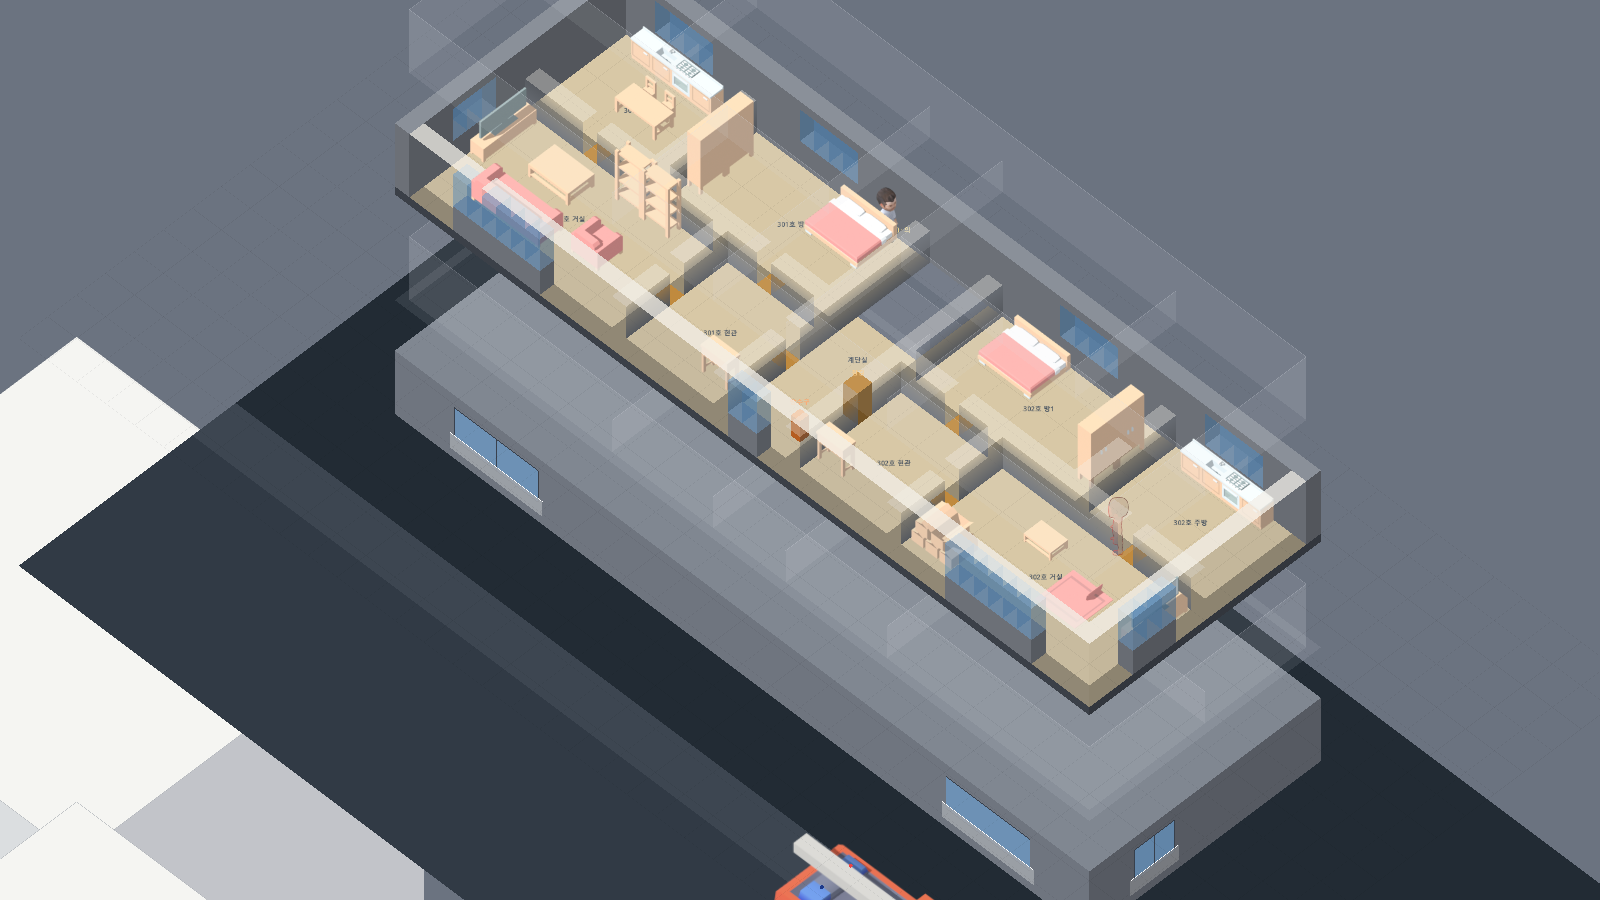
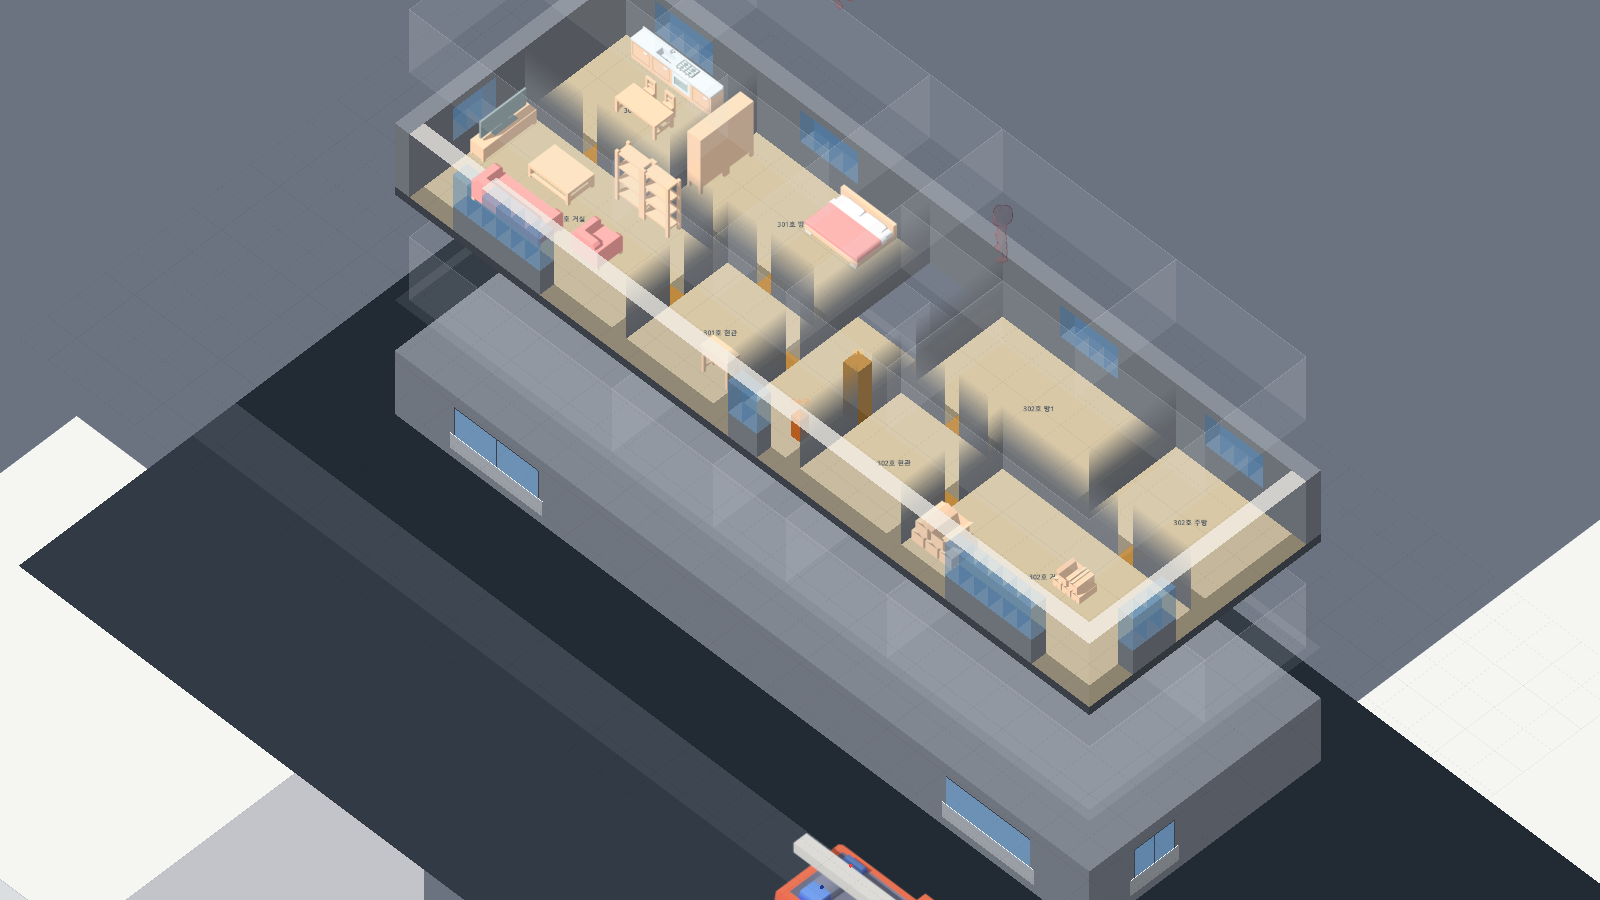
정보 안개: 미발견 칸은 천장 높이 덮개(바닥 칠하지 않음), 기억한 칸은 채도만 낮춤, 실내 벽은 천장까지 그라데이션

diff --git a/docs/decisions.md b/docs/decisions.md
@@ -96,3 +96,4 @@
 | 2026-11-11 | F01 | 단면 보기 다른 층 | 층 간격 160→220px. 고른 층 외 위·아래 층은 벽 선(외곽·방 벽)만 얇은 반투명 흰 선, 불을 아는 방의 벽만 주황. 가구·바닥·불·연기는 그리지 않음. 다른 층 대원은 몸 테두리 노랑, 발견한 요구조자는 빨강 — 지금 층 위에 비쳐 보임(X-ray) | 사용자 요청(위층이 지금 층을 가림). 불·연기 윤곽선은 복잡해져 빼고 층 막대 표시로 충분 |
 | 2026-11-11 | F01 | 다른 층 벽 모양 | 유리 상자: 벽을 천장 높이(2.4m) 면으로 — 바깥벽 반투명 실선(위·아래·양 끝 세로선), 확인된 내부 벽(본 적 있거나 도면)은 옅은 반투명 면 + 반투명 점선 테두리, 모르는 곳 내부 벽은 숨김, 불을 아는 방 벽은 주황 | 사용자 지적(가로선만 있어 입체감 없음) + 제안(확인된 내부 벽만 점선) |
 | 2026-11-11 | F01 | 단면 보기 벽·층 | 지금 층: 앞 바깥벽(남·동) 천장 높이 면 15% + 꼭대기 진한 띠, 뒷벽은 그대로, 실내 벽 허리 높이(1.2m) 바닥 진하고 위로 갈수록 투명(20%), 문·창은 진하게. 바로 아래층: 벽·바닥 회백색 10%. 바로 위층: 벽만 회백색 10%(바닥은 지금 층을 뿌옇게 덮어 뺌). 먼 아래층: 건물 외관 덩어리. 먼 위층: 잘라 냄(사람 테두리만). 다른 층 사람은 노랑·빨강 테두리 | 사용자 결정(유리 상자 방식 폐기). 먼 위층을 외관으로 그리면 지금 층을 가려 잘라 냄 |
+| 2026-11-11 | 정보 안개 표현 | 미발견 지역 | 바닥을 까맣게 칠하지 않고, 본 적 없는 실내 칸 위에 천장 높이 회청색 덮개(85%, 빗금·테두리) — 대원이 보면 그 칸이 걷힘. 본 적 있지만 지금 안 보이는 칸은 채도를 빼고 조금 어둡게. 위·아래 다른 층은 미발견 표시 없음. 실내 벽은 천장까지 세우고 1m 위에서 빠르게 투명해져 꼭대기에서 사라짐(단면 띠 없음) | 사용자 지적(어둠이 바닥에 칠해져 이상함) — 폴아웃·Door Kickers·XCOM처럼 위에서 덮는 방식 |
